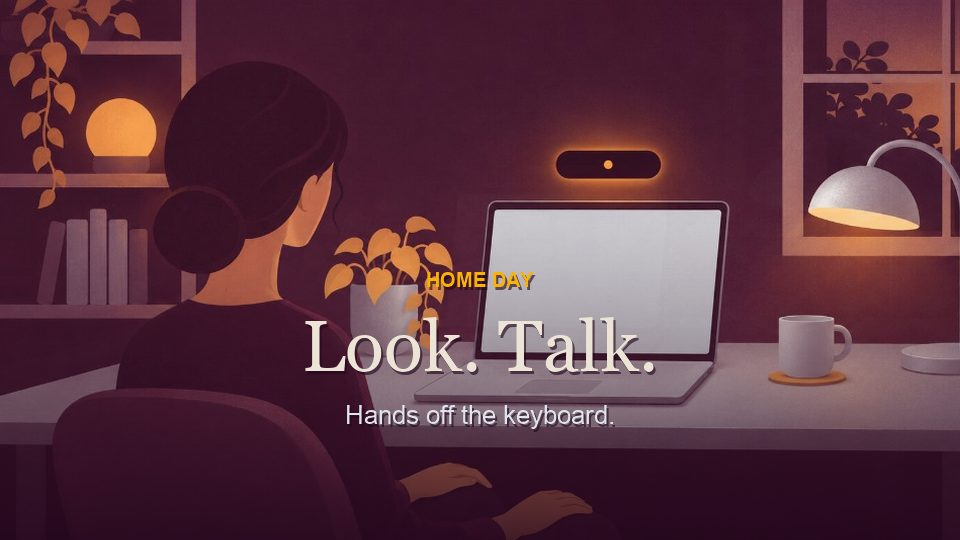
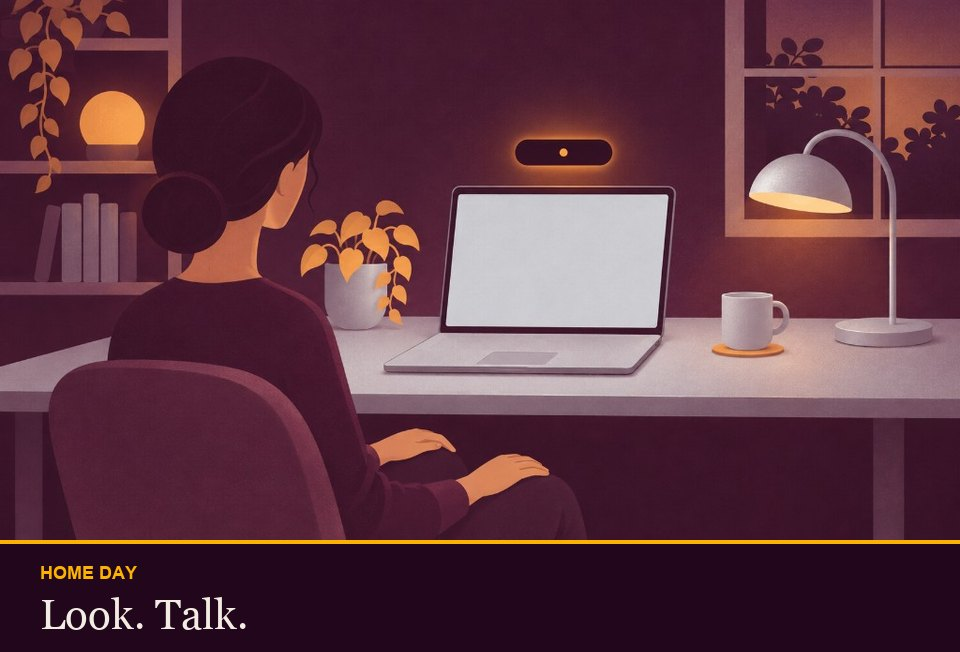
docs: keep the who-it-is-for pictures whole and put the words underneath
The type was covering the laptop, and the office crop was cutting the drawing off.

diff --git a/scripts/render-who-gif.py b/scripts/render-who-gif.py
@@ -1,14 +1,13 @@
 #!/usr/bin/env python3
-"""Build the Who it's for loop: home, office, then the 2025 work-setting bar.
+"""Build the Who it's for loop.
 
-Words are drawn here, not baked into the source illustrations. The survey
-figures match the Stack Overflow 2025 work question and the JetBrains 2025
-line used in the README. Timing is a design choice, not a measurement.
+The illustrations stay whole. Words sit in a band under the picture, then a
+still card shows the 2025 Stack Overflow work split. Holds are exact copies
+so the GIF stays sharp. Timing is a design choice, not a measurement.
 """
 
 from __future__ import annotations
 
-import math
 import subprocess
 from pathlib import Path
 
@@ -16,233 +15,154 @@ from PIL import Image, ImageDraw, ImageFont
 
 ROOT = Path(__file__).resolve().parents[1]
 HOME = ROOT / "docs/visuals/home-day.jpg"
-OFFICE = ROOT / "docs/visuals/home-and-office.jpg"
+SPLIT = ROOT / "docs/visuals/home-and-office.jpg"
 OUT_GIF = ROOT / "docs/visuals/who-its-for.gif"
-OUT_PNG = ROOT / "docs/visuals/who-its-for.jpg"
-FRAMES = Path("/tmp/saywhen-who-frames")
+OUT_JPG = ROOT / "docs/visuals/who-its-for.jpg"
+WORK = Path("/tmp/saywhen-who-v2")
 
-W, H = 960, 540
-FPS = 10
+W = 960
+PIC_H = 540
+BAND = 112
+H = PIC_H + BAND
+
 PLUM = (34, 6, 28)
 AMBER = (251, 179, 3)
 SILVER = (223, 229, 236)
-CREAM = (236, 228, 214)
-MUTED = (179, 168, 180)
+CREAM = (243, 236, 226)
+MUTED = (186, 174, 186)
 HYBRID = (228, 192, 122)
-OFFICE_SEG = (109, 90, 104)
+FLEX = (223, 229, 236)
+OFFICE = (122, 104, 118)
 
 SERIF = "/System/Library/Fonts/Supplemental/Georgia.ttf"
-SERIF_BOLD = "/System/Library/Fonts/Supplemental/Georgia Bold.ttf"
 SANS = "/System/Library/Fonts/Supplemental/Arial.ttf"
 SANS_BOLD = "/System/Library/Fonts/Supplemental/Arial Bold.ttf"
 
 SEGMENTS = (
     (0.324, AMBER, "32.4%", "Fully remote"),
     (0.371, HYBRID, "37.1%", "Hybrid"),
-    (0.126, SILVER, "12.6%", "Free to choose"),
-    (0.179, OFFICE_SEG, "17.9%", "In an office"),
+    (0.126, FLEX, "12.6%", "Free to choose"),
+    (0.179, OFFICE, "17.9%", "In an office"),
 )
 
 
-def font(path: str, size: int) -> ImageFont.FreeTypeFont:
+def face(path: str, size: int) -> ImageFont.FreeTypeFont:
     return ImageFont.truetype(path, size)
 
 
-def ease(t: float) -> float:
-    t = max(0.0, min(1.0, t))
-    return 1 - (1 - t) ** 3
+def picture(path: Path) -> Image.Image:
+    im = Image.open(path).convert("RGB")
+    return im.resize((W, PIC_H), Image.Resampling.LANCZOS)
 
 
-def cover(im: Image.Image, zoom: float, focus: tuple[float, float]) -> Image.Image:
-    im = im.convert("RGB")
-    scale = max((W * zoom) / im.width, (H * zoom) / im.height)
-    resized = im.resize((max(W, int(im.width * scale)), max(H, int(im.height * scale))), Image.Resampling.LANCZOS)
-    cx = int(resized.width * focus[0])
-    cy = int(resized.height * focus[1])
-    left = max(0, min(resized.width - W, cx - W // 2))
-    top = max(0, min(resized.height - H, cy - H // 2))
-    return resized.crop((left, top, left + W, top + H))
+def text_width(draw: ImageDraw.ImageDraw, text: str, fnt: ImageFont.FreeTypeFont) -> int:
+    box = draw.textbbox((0, 0), text, font=fnt)
+    return box[2] - box[0]
 
 
-def scrim() -> Image.Image:
-    layer = Image.new("RGBA", (W, H), (0, 0, 0, 0))
-    px = layer.load()
-    start = int(H * 0.38)
-    for y in range(start, H):
-        t = (y - start) / (H - start)
-        alpha = int(210 * (t ** 1.35))
-        for x in range(0, W, 2):
-            px[x, y] = (*PLUM, alpha)
-            if x + 1 < W:
-                px[x + 1, y] = (*PLUM, alpha)
-    return layer
+def split_card(photo: Image.Image) -> Image.Image:
+    card = Image.new("RGB", (W, H), PLUM)
+    card.paste(photo, (0, 0))
+    draw = ImageDraw.Draw(card)
+    draw.rectangle((0, PIC_H, W, PIC_H + 3), fill=AMBER)
+    kicker = face(SANS_BOLD, 16)
+    headline = face(SERIF, 32)
+    draw.text((36, PIC_H + 24), "HOME", font=kicker, fill=AMBER)
+    draw.text((36, PIC_H + 52), "Look. Talk.", font=headline, fill=CREAM)
+    right = W // 2 + 28
+    draw.text((right, PIC_H + 24), "OFFICE", font=kicker, fill=SILVER)
+    draw.text((right, PIC_H + 52), "Stay quiet.", font=headline, fill=CREAM)
+    draw.line((W // 2, PIC_H + 22, W // 2, H - 22), fill=(90, 62, 84), width=1)
+    return card
 
 
-def text_size(draw: ImageDraw.ImageDraw, text: str, face: ImageFont.FreeTypeFont) -> tuple[int, int]:
-    box = draw.textbbox((0, 0), text, font=face)
-    return box[2] - box[0], box[3] - box[1]
+def chart(progress: float) -> Image.Image:
+    card = Image.new("RGB", (W, H), PLUM)
+    draw = ImageDraw.Draw(card)
+    kicker = face(SANS_BOLD, 18)
+    title = face(SERIF, 46)
+    num_face = face(SANS_BOLD, 22)
+    name_face = face(SANS, 15)
+    foot = face(SANS, 16)
 
+    label = "STACK OVERFLOW  2025"
+    draw.text(((W - text_width(draw, label, kicker)) // 2, 150), label, font=kicker, fill=AMBER)
+    heading = "Where developers worked"
+    draw.text(((W - text_width(draw, heading, title)) // 2, 190), heading, font=title, fill=CREAM)
 
-def paint_text(base: Image.Image, lines: list[tuple[str, ImageFont.FreeTypeFont, tuple[int, int, int], int]], alpha: float, rise: int) -> None:
-    if alpha <= 0:
-        return
-    layer = Image.new("RGBA", (W, H), (0, 0, 0, 0))
-    draw = ImageDraw.Draw(layer)
-    for text, face, color, y in lines:
-        tw, _ = text_size(draw, text, face)
-        x = (W - tw) // 2
-        yy = y - int((1 - alpha) * rise)
-        draw.text((x + 2, yy + 3), text, font=face, fill=(*PLUM, int(160 * alpha)))
-        draw.text((x, yy), text, font=face, fill=(*color, int(255 * alpha)))
-    base.alpha_composite(layer)
-
-
-def scene_frame(photo: Image.Image, zoom: float, focus: tuple[float, float], lines: list, alpha: float) -> Image.Image:
-    frame = cover(photo, zoom, focus).convert("RGBA")
-    frame.alpha_composite(SCRIM)
-    paint_text(frame, lines, alpha, 18)
-    return frame
-
-
-def stats_frame(progress: float, alpha: float) -> Image.Image:
-    frame = Image.new("RGBA", (W, H), (*PLUM, 255))
-    draw = ImageDraw.Draw(frame)
-    kicker = font(SANS_BOLD, 18)
-    title = font(SERIF, 54)
-    source = font(SANS, 18)
-    label_num = font(SANS_BOLD, 22)
-    label_name = font(SANS, 16)
-    lines = [
-        ("STACK OVERFLOW  2025", kicker, AMBER, 78),
-        ("Where developers worked", title, CREAM, 118),
-    ]
-    paint_text(frame, lines, alpha, 12)
-
-    bar_w, bar_h = 760, 22
+    bar_w, bar_h = 760, 20
     bar_x = (W - bar_w) // 2
-    bar_y = 250
-    shown = ease(progress)
-    draw.rounded_rectangle((bar_x, bar_y, bar_x + bar_w, bar_y + bar_h), radius=11, fill=(58, 32, 52, 255))
+    bar_y = 300
+    draw.rounded_rectangle((bar_x, bar_y, bar_x + bar_w, bar_y + bar_h), radius=10, fill=(58, 36, 52))
+    shown = max(0.0, min(1.0, progress))
     x = bar_x
     for share, color, _, _ in SEGMENTS:
         width = bar_w * share * shown
-        if width > 1:
+        if width > 0.5:
             draw.rectangle((x, bar_y, x + width, bar_y + bar_h), fill=color)
-        x += bar_w * share * shown
+        x += width
 
-    if progress > 0.55:
-        label_alpha = ease((progress - 0.55) / 0.45)
-        cursor = bar_x
-        for share, _, num, name in SEGMENTS:
-            cx = cursor + (bar_w * share) / 2
-            cursor += bar_w * share
-            for text, face, color, dy in (
-                (num, label_num, CREAM, 292),
-                (name, label_name, MUTED, 322),
-            ):
-                tw, _ = text_size(draw, text, face)
-                overlay = Image.new("RGBA", (W, H), (0, 0, 0, 0))
-                ImageDraw.Draw(overlay).text((cx - tw / 2, dy), text, font=face, fill=(*color, int(255 * label_alpha * alpha)))
-                frame.alpha_composite(overlay)
-
-    foot = "Not a measure of who wants voice.  US fully remote: 45%."
-    foot2 = "JetBrains 2025:  62% regularly use an AI coding assistant."
-    paint_text(
-        frame,
-        [
-            (foot, source, MUTED, 430),
-            (foot2, source, SILVER, 462),
-        ],
-        alpha * ease(max(0, (progress - 0.72) / 0.28)),
-        8,
-    )
-    return frame
-
-
-def blend(a: Image.Image, b: Image.Image, t: float) -> Image.Image:
-    return Image.blend(a.convert("RGBA"), b.convert("RGBA"), ease(t))
-
-
-SCRIM = scrim()
+    if progress >= 1:
+        col = bar_w / 4
+        for i, (color, num, name) in enumerate((item[1], item[2], item[3]) for item in SEGMENTS):
+            cx = bar_x + col * i + col / 2
+            num_w = text_width(draw, num, num_face)
+            name_w = text_width(draw, name, name_face)
+            draw.rectangle((cx - 16, 342, cx + 16, 348), fill=color)
+            draw.text((cx - num_w / 2, 360), num, font=num_face, fill=CREAM)
+            draw.text((cx - name_w / 2, 390), name, font=name_face, fill=MUTED)
+        note = "Not a measure of who wants voice.   US fully remote: 45%."
+        note2 = "JetBrains 2025:  62% regularly use an AI coding assistant."
+        draw.text(((W - text_width(draw, note, foot)) // 2, 470), note, font=foot, fill=MUTED)
+        draw.text(((W - text_width(draw, note2, foot)) // 2, 498), note2, font=foot, fill=SILVER)
+    return card
 
 
 def main() -> None:
-    home = Image.open(HOME)
-    office_sheet = Image.open(OFFICE)
-    office = office_sheet.crop((office_sheet.width // 2, 0, office_sheet.width, office_sheet.height))
+    WORK.mkdir(parents=True, exist_ok=True)
+    home = _with_photo(picture(HOME), "HOME DAY", "Look. Talk.")
+    split = split_card(picture(SPLIT))
+    home.save(OUT_JPG, "JPEG", quality=86, optimize=True)
 
-    home_lines = [
-        ("HOME DAY", font(SANS_BOLD, 20), AMBER, 268),
-        ("Look. Talk.", font(SERIF, 72), CREAM, 304),
-        ("Hands off the keyboard.", font(SANS, 26), SILVER, 400),
-    ]
-    office_lines = [
-        ("OFFICE DAY", font(SANS_BOLD, 20), AMBER, 268),
-        ("Stay quiet.", font(SERIF, 72), CREAM, 304),
-        ("Type only. The shortcut is still there.", font(SANS, 24), SILVER, 400),
-    ]
+    frames = [("home.png", home, 2.4), ("split.png", split, 2.6)]
+    for i, step in enumerate((0.18, 0.36, 0.55, 0.74, 0.9, 1, 1)):
+        frames.append((f"bar_{i}.png", chart(step), 0.12 if i < 5 else 2.2))
 
-    home_a = scene_frame(home, 1.0, (0.42, 0.48), home_lines, 1)
-    home_b = scene_frame(home, 1.08, (0.40, 0.46), home_lines, 1)
-    office_a = scene_frame(office, 1.0, (0.48, 0.58), office_lines, 1)
-    office_b = scene_frame(office, 1.07, (0.46, 0.56), office_lines, 1)
-    card_in = stats_frame(0.02, 1)
+    for name, image, _duration in frames:
+        image.save(WORK / name)
 
-    FRAMES.mkdir(parents=True, exist_ok=True)
-    for old in FRAMES.glob("*.png"):
-        old.unlink()
+    listing = WORK / "list.txt"
+    lines = []
+    for name, _image, duration in frames:
+        lines.append(f"file '{name}'")
+        lines.append(f"duration {duration}")
+    lines.append(f"file '{frames[-1][0]}'")
+    listing.write_text("\n".join(lines) + "\n")
 
-    sequence: list[Image.Image] = []
-
-    def add_move(start: Image.Image, end: Image.Image, n: int, text_in: int = 8) -> None:
-        for i in range(n):
-            t = i / max(1, n - 1)
-            frame = blend(start, end, t)
-            if i < text_in:
-                # The pre-rendered scenes already include text. Fade the whole
-                # frame up from a dimmed copy so the first beat does not pop.
-                dim = Image.blend(Image.new("RGBA", (W, H), (*PLUM, 255)), frame, ease((i + 1) / text_in))
-                sequence.append(dim.convert("RGB"))
-            else:
-                sequence.append(frame.convert("RGB"))
-
-    def add_cross(a: Image.Image, b: Image.Image, n: int) -> None:
-        for i in range(n):
-            sequence.append(blend(a, b, (i + 1) / n).convert("RGB"))
-
-    add_move(home_a, home_b, 28, text_in=8)
-    add_cross(home_b, office_a, 8)
-    add_move(office_a, office_b, 26, text_in=0)
-    add_cross(office_b, card_in, 8)
-    for i in range(36):
-        sequence.append(stats_frame((i + 1) / 18 if i < 18 else 1, 1).convert("RGB"))
-
-    for i, frame in enumerate(sequence):
-        frame.save(FRAMES / f"frame_{i:04d}.png", optimize=True)
-
-    sequence[20].convert("RGB").save(OUT_PNG, "JPEG", quality=82, optimize=True)
-    palette = FRAMES / "palette.png"
-    shrink = "fps=6,scale=640:-1:flags=lanczos"
+    palette = WORK / "palette.png"
     subprocess.run(
-        [
-            "ffmpeg", "-y", "-framerate", str(FPS), "-i", str(FRAMES / "frame_%04d.png"),
-            "-vf", f"{shrink},palettegen=max_colors=48:stats_mode=diff",
-            str(palette),
-        ],
-        check=True,
-        capture_output=True,
+        ["ffmpeg", "-y", "-f", "concat", "-safe", "0", "-i", str(listing),
+         "-vf", "palettegen=max_colors=128:stats_mode=diff", str(palette)],
+        cwd=WORK, check=True, capture_output=True,
     )
     subprocess.run(
-        [
-            "ffmpeg", "-y", "-framerate", str(FPS), "-i", str(FRAMES / "frame_%04d.png"),
-            "-i", str(palette),
-            "-lavfi", f"{shrink}[x];[x][1:v]paletteuse=dither=bayer:bayer_scale=4:diff_mode=rectangle",
-            "-loop", "0", str(OUT_GIF),
-        ],
-        check=True,
-        capture_output=True,
+        ["ffmpeg", "-y", "-f", "concat", "-safe", "0", "-i", str(listing),
+         "-i", str(palette),
+         "-lavfi", "paletteuse=dither=none",
+         "-loop", "0", str(OUT_GIF)],
+        cwd=WORK, check=True, capture_output=True,
     )
-    print(f"{len(sequence)} frames, {OUT_GIF.stat().st_size / 1024:.0f} KB, {len(sequence) / FPS:.1f}s")
+    print(f"{OUT_GIF.stat().st_size / 1024:.0f} KB")
+
+
+def _with_photo(photo: Image.Image, title: str, line: str) -> Image.Image:
+    card = Image.new("RGB", (W, H), PLUM)
+    card.paste(photo, (0, 0))
+    draw = ImageDraw.Draw(card)
+    draw.rectangle((0, PIC_H, W, PIC_H + 3), fill=AMBER)
+    draw.text((40, PIC_H + 22), title, font=face(SANS_BOLD, 18), fill=AMBER)
+    draw.text((40, PIC_H + 50), line, font=face(SERIF, 42), fill=CREAM)
+    return card
 
 
 if __name__ == "__main__":
